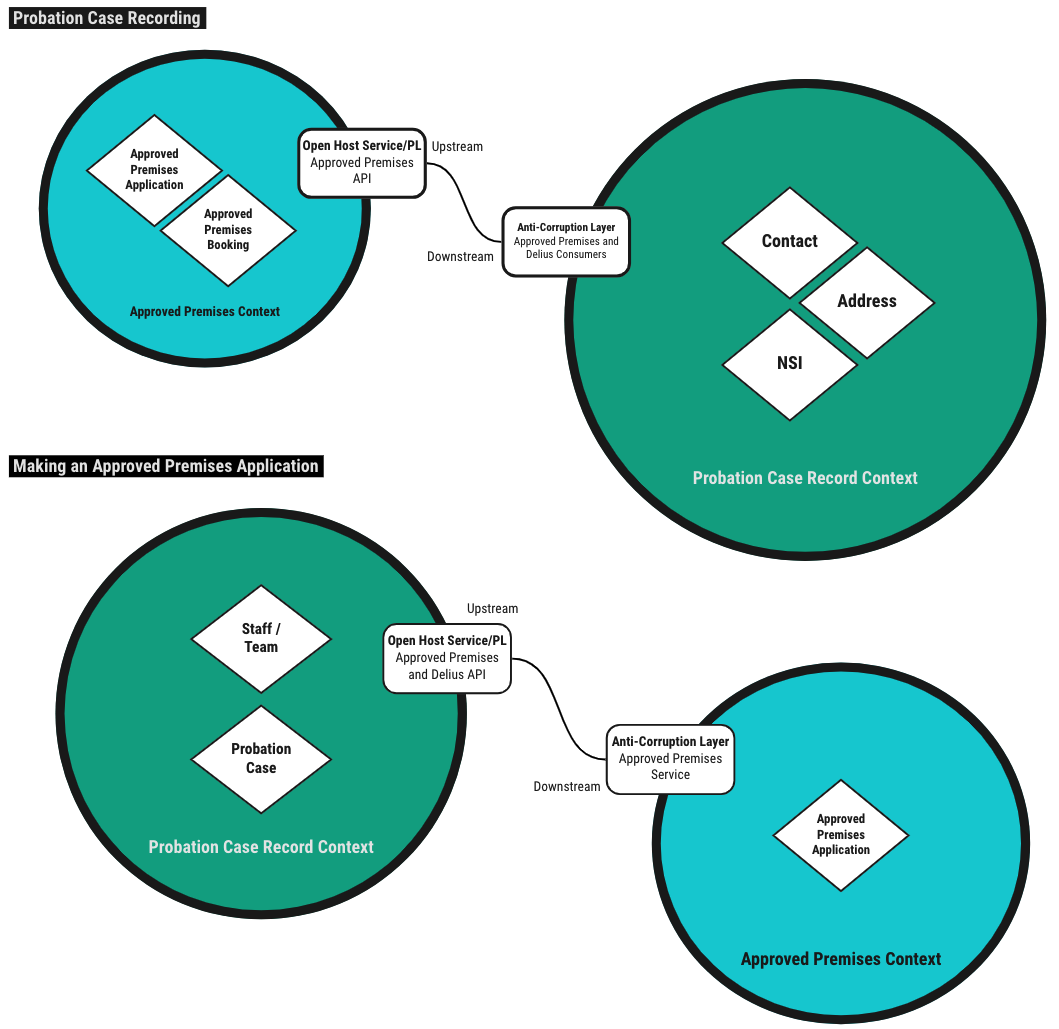
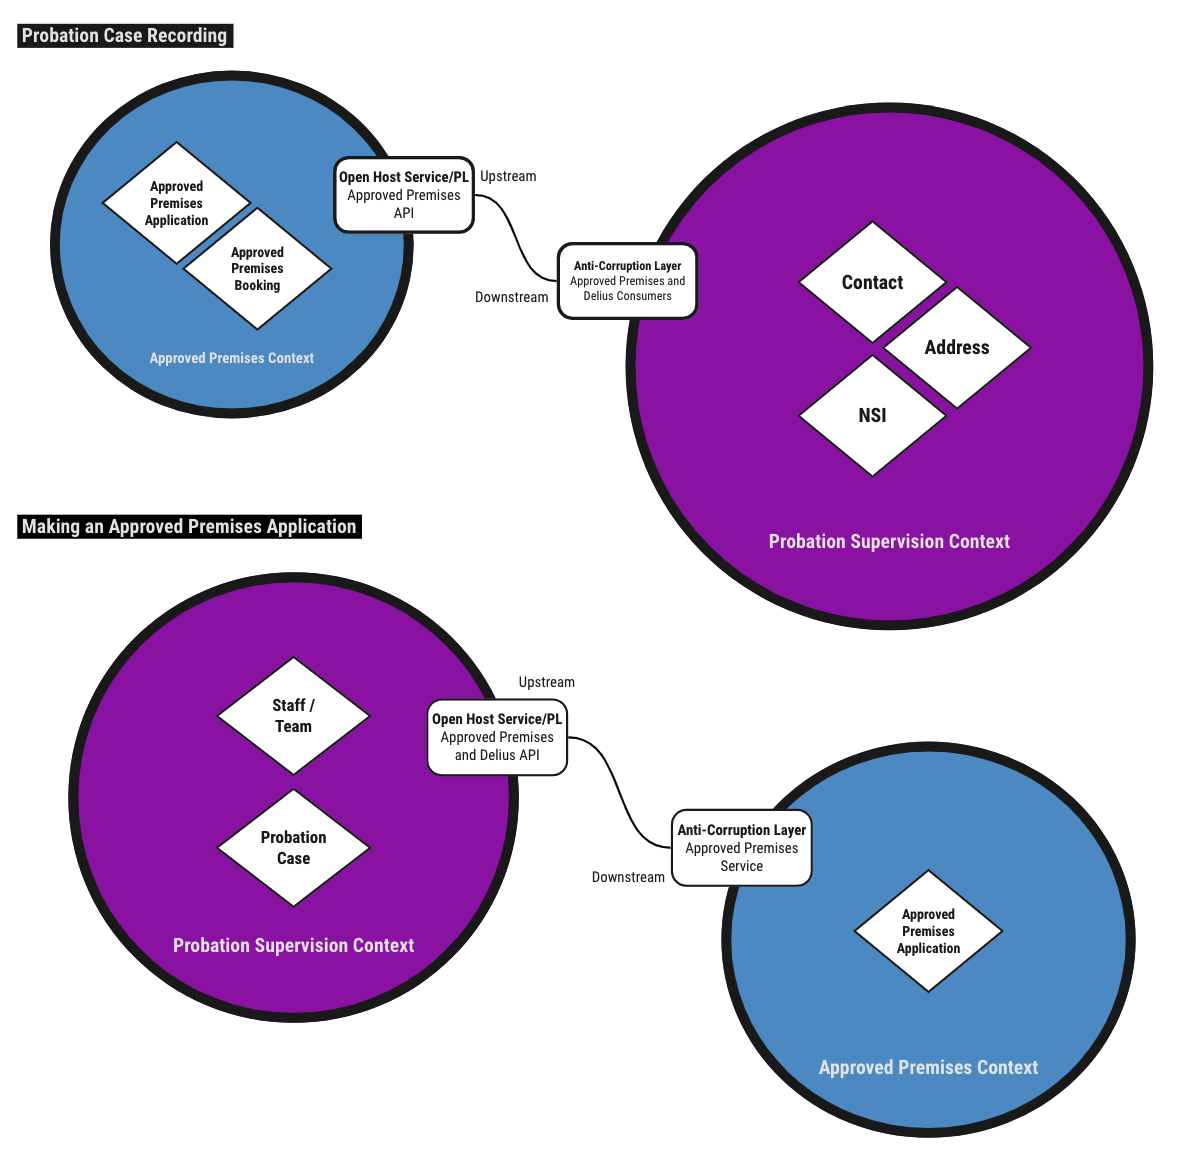
PI-784 document approved premises and delius (#1452)
* PI-784: Add domain events documentation for approved-premises-and-delius

* PI-784: Update approved premises context map

diff --git a/projects/approved-premises-and-delius/README.md b/projects/approved-premises-and-delius/README.md
@@ -16,3 +16,27 @@ service when interacting with the probation case via Delius.
 ## Context Maps
 
 ![Context Maps](./tech-docs/source/img/approved-premises-and-delius-context-maps.png)
+
+## Interfaces
+
+### Message Formats
+
+The service responds to various HMPPS Domain Event message via the
+[Approved Premises and Delius Queue](https://github.com/ministryofjustice/cloud-platform-environments/blob/main/namespaces/live.cloud-platform.service.justice.gov.uk/hmpps-probation-integration-services-prod/resources/approved-premises-and-delius-queue.tf).
+The events are raised by the [HMPPS Approved Premises Service](https://github.com/ministryofjustice/hmpps-approved-premises-api)
+to communicate important events in the approved premises referrals process.
+
+Example [messages](./src/dev/resources/messages/) are in the development source tree.
+
+Incoming messages are filtered on `eventType` by the [SQS queue policy](https://github.com/ministryofjustice/cloud-platform-environments/blob/cc44e15d883b04d1caf5663eec6025674dc10eb5/namespaces/live.cloud-platform.service.justice.gov.uk/hmpps-probation-integration-services-prod/resources/approved-premises-and-delius-queue.tf#L5-L14)
+
+## Event Triggers
+
+Approved Premises domain events are raised in real time as approved premises
+referrals are processed. The progressive stages of a referral are raised as
+separate events
+
+| Business Event                                        | Message Class      | Message Event Type / Filter               |
+|-------------------------------------------------------|--------------------|-------------------------------------------|
+| A referral to an approved premises has been assessed  | HMPPS Domain Event | "approved-premises.application.assessed"  |
+| A referral to an approved premises has been submitted | HMPPS Domain Event | "approved-premises.application.submitted" |
